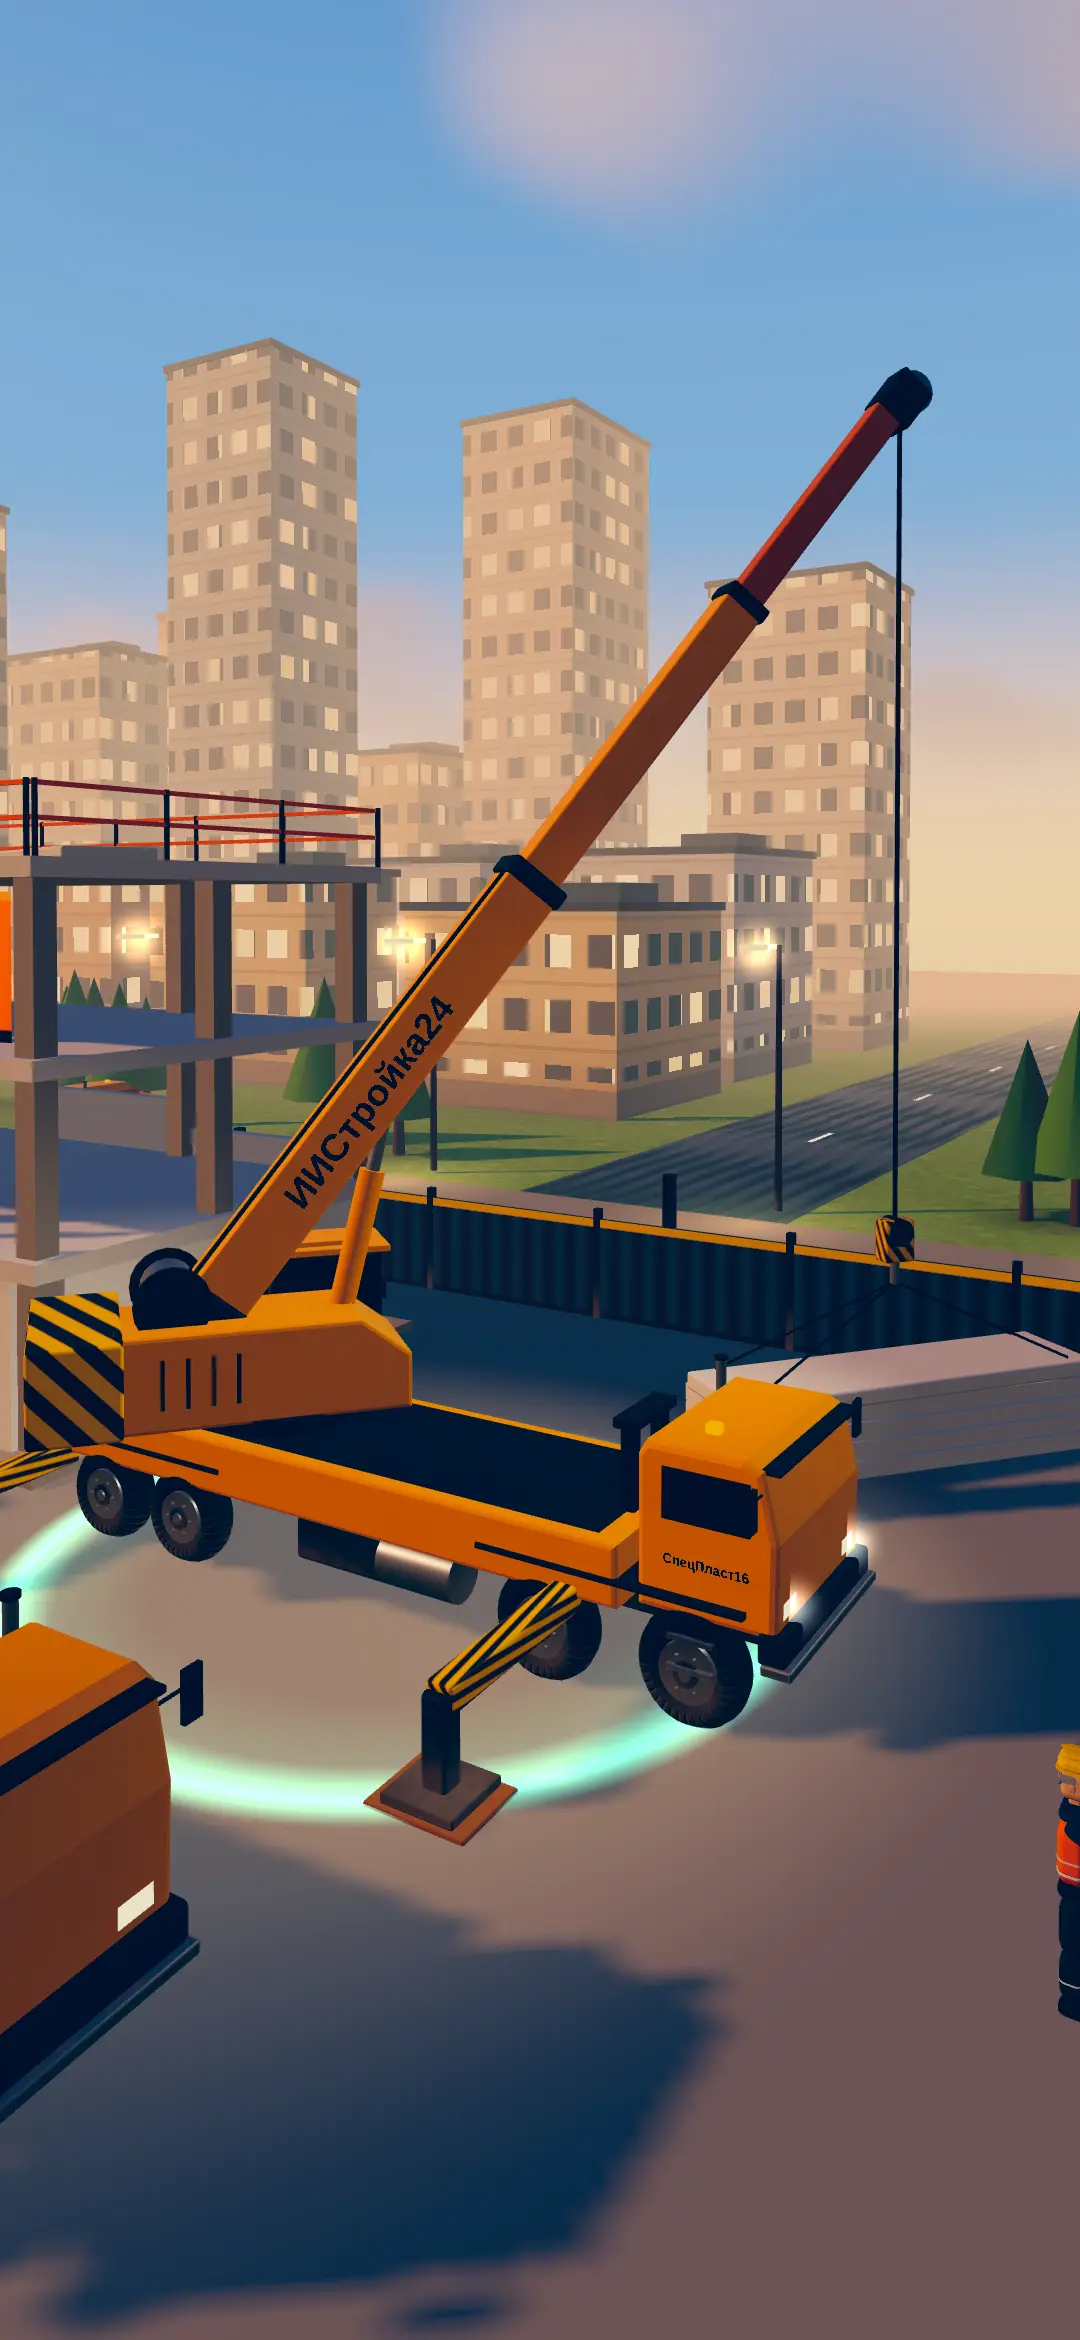
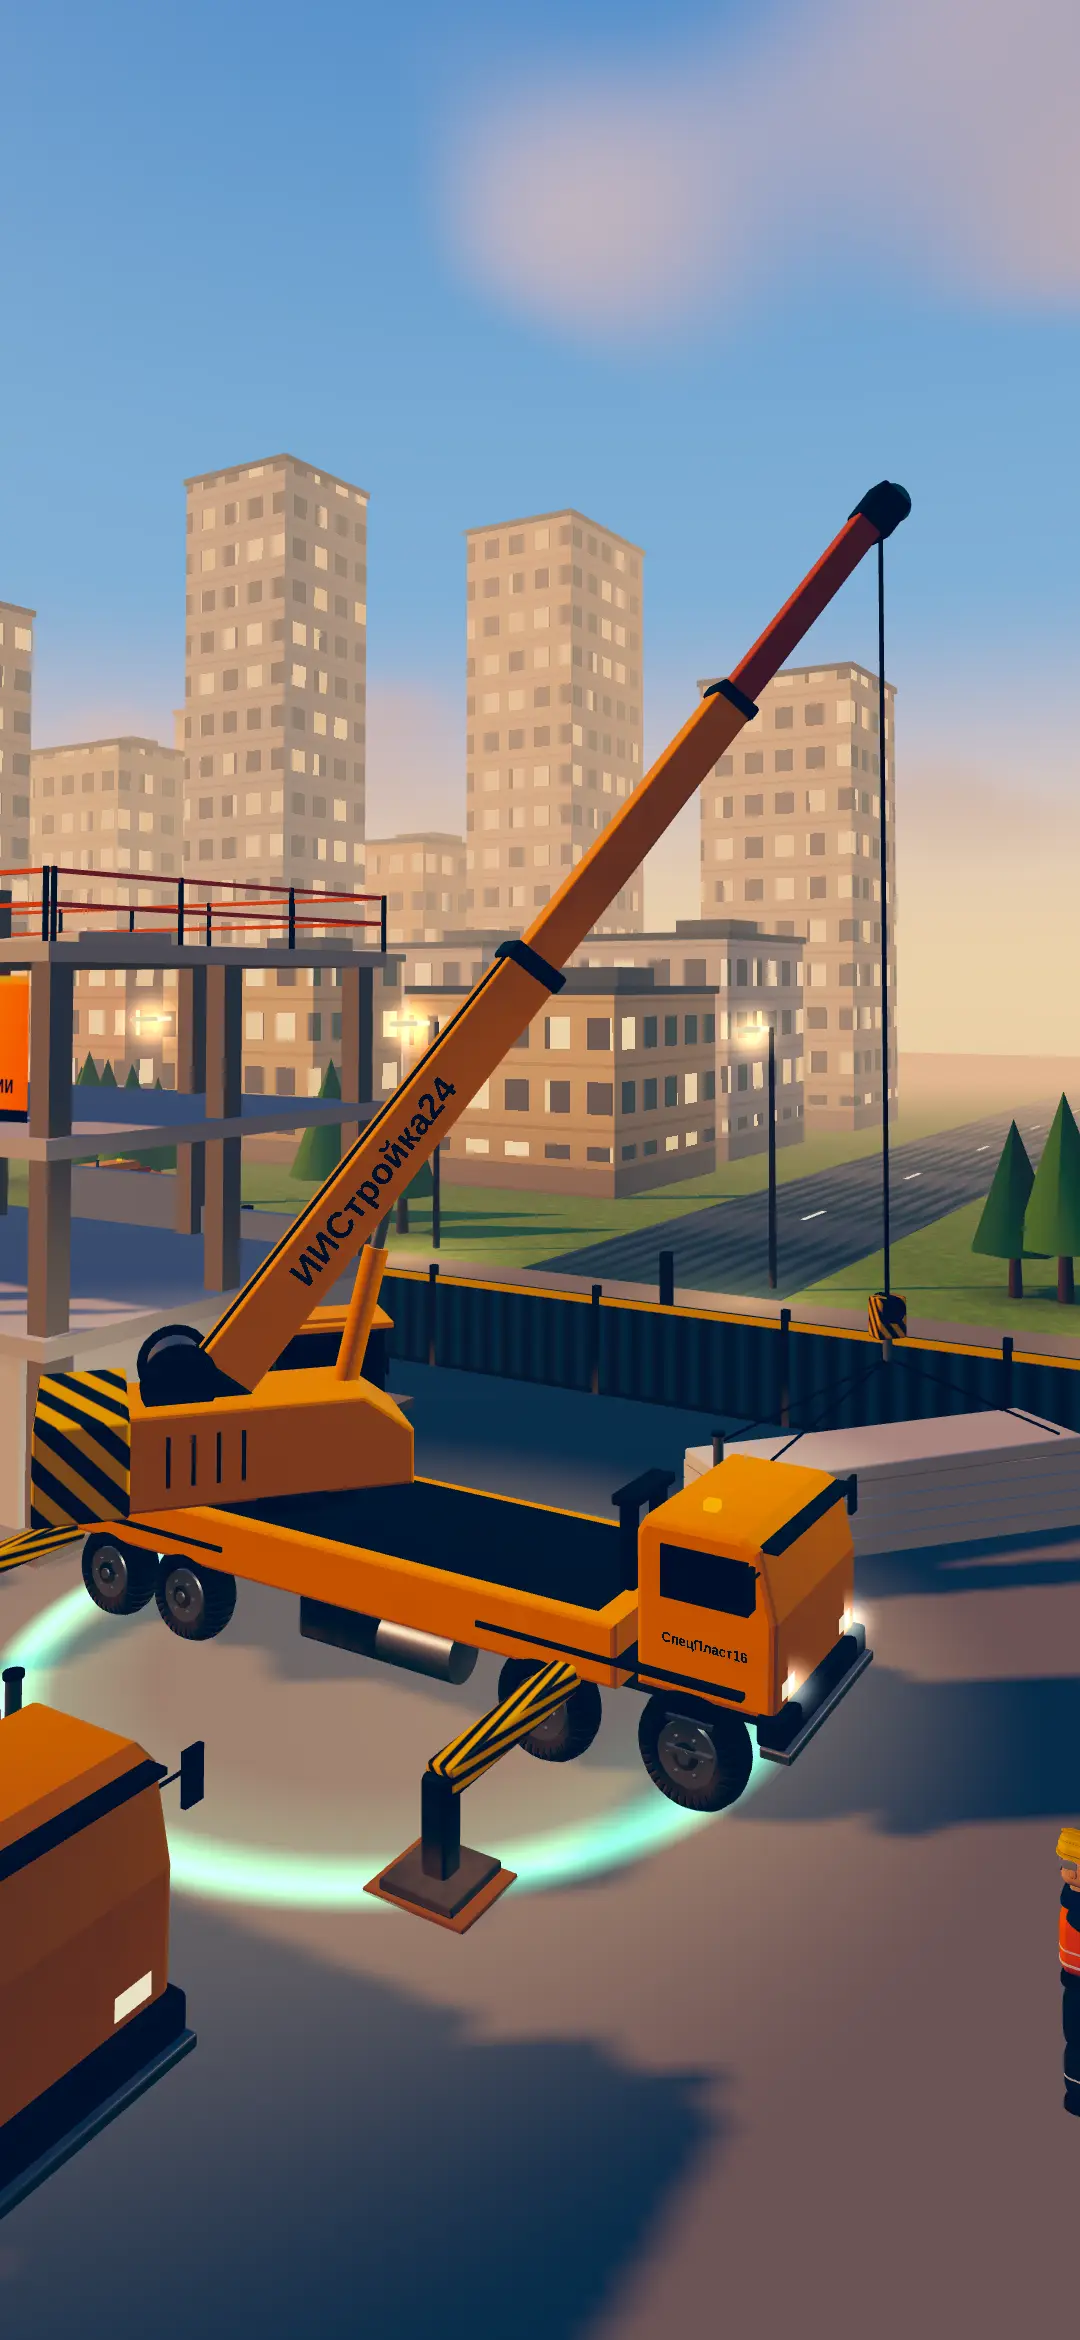
3D-город: кадр автокрана на телефоне выше, выход к блоку без плавной прокрутки
Claude-Session: https://claude.ai/code/session_01PADohwhAvFi4WYEQQ5kJFp

diff --git a/apps/web/src/components/world3d/World3D.tsx b/apps/web/src/components/world3d/World3D.tsx
@@ -153,15 +153,33 @@ export function World3D({ categoryIds }: { categoryIds: Partial<Record<WorldKind
     if (!closed) return;
     inviteRef.current?.focus({ preventScroll: true });
     if (!fromUrl) return;
-    const toBlock = () => slotRef.current?.scrollIntoView({ block: 'center' });
-    const onPop = () => window.setTimeout(toBlock, 0);
-    toBlock();
-    window.addEventListener('popstate', onPop);
-    const stop = window.setTimeout(() => window.removeEventListener('popstate', onPop), 1500);
-    return () => {
-      window.clearTimeout(stop);
+    const toBlock = () => slotRef.current?.scrollIntoView({ block: 'center', behavior: 'instant' });
+    let restoration: ScrollRestoration | null = null;
+    try {
+      restoration = history.scrollRestoration;
+      history.scrollRestoration = 'manual';
+    } catch {
+      /* history blocked: the block is still brought into view below */
+    }
+    const done = () => {
       window.removeEventListener('popstate', onPop);
+      window.clearTimeout(stop);
+      try {
+        if (restoration) history.scrollRestoration = restoration;
+      } catch {
+        /* nothing to restore */
+      }
     };
+    const onPop = () => {
+      toBlock();
+      window.setTimeout(toBlock, 50);
+      done();
+    };
+    toBlock();
+    window.requestAnimationFrame(toBlock);
+    window.addEventListener('popstate', onPop);
+    const stop = window.setTimeout(done, 6000);
+    return done;
   }, [walkOpen, fromUrl]);
 
   const openWalk = useCallback((direct = false) => {

diff --git a/apps/web/src/components/world3d/walk.ts b/apps/web/src/components/world3d/walk.ts
@@ -53,7 +53,7 @@ export const WALK_STOPS: WalkStop[] = [
     kind: 'crane',
     mode: 'site',
     wide: { cam: [10.5, 8, 14], look: [-1.0, 7.4, -1.5], fov: 58 },
-    tall: { cam: [10.5, 8.2, 14], look: [1.7, 7.8, -0.4], fov: 78 },
+    tall: { cam: [10.5, 8.2, 14], look: [1.7, 8.8, -0.4], fov: 80 },
     key: { from: [9, 13, -8], radius: 9 },
   },
   {
